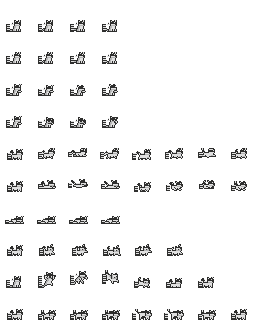
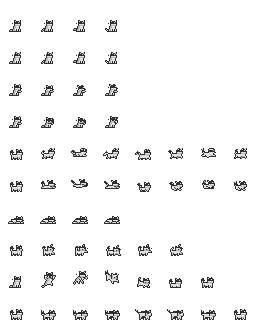
fix(pet): eliminate sprite cropping with 32x32 frames and add handcrafted baby pixel art for cat, rat, and raccoon

diff --git a/test/pet_species_test.dart b/test/pet_species_test.dart
@@ -36,11 +36,13 @@ void main() {
       expect(PetGrowthStage.master.scale, equals(1.15));
     });
 
-    test('Asset resolution uses baby atlas for cats under 200 XP', () {
+    test('Asset resolution uses baby atlas for all species under 200 XP', () {
       expect(PetSpeciesCatalog.resolveAsset('classic', xp: 50), equals('cat_baby.png'));
       expect(PetSpeciesCatalog.resolveAsset('classic', xp: 250), equals('cat.png'));
-      expect(PetSpeciesCatalog.resolveAsset('rat_snow', xp: 50), equals('rat.png'));
-      expect(PetSpeciesCatalog.resolveAsset('raccoon_classic', xp: 50), equals('raccoon.png'));
+      expect(PetSpeciesCatalog.resolveAsset('rat_snow', xp: 50), equals('rat_baby.png'));
+      expect(PetSpeciesCatalog.resolveAsset('rat_snow', xp: 250), equals('rat.png'));
+      expect(PetSpeciesCatalog.resolveAsset('raccoon_classic', xp: 50), equals('raccoon_baby.png'));
+      expect(PetSpeciesCatalog.resolveAsset('raccoon_classic', xp: 250), equals('raccoon.png'));
     });
 
     test('Random pet selection returns valid style', () {

diff --git a/lib/core/widgets/kitty_companion.dart b/lib/core/widgets/kitty_companion.dart
@@ -285,13 +285,9 @@ class _AtlasPainter extends CustomPainter {
   @override
   void paint(Canvas canvas, Size size) {
     if (atlas == null) return;
-    final source = Rect.fromLTWH(frame * 32 + 4, row * 32 + 12, 24, 20);
-    final scale = math.min(size.width / 24, size.height / 20);
-    final target = Rect.fromCenter(
-      center: size.center(Offset.zero),
-      width: 24 * scale,
-      height: 20 * scale,
-    );
+    // Full 32x32 frame cell ensures no tails, ears, or snouts are clipped
+    final source = Rect.fromLTWH(frame * 32.0, row * 32.0, 32.0, 32.0);
+    final target = Rect.fromLTWH(0, 0, size.width, size.height);
     canvas.drawImageRect(
       atlas!,
       source,

diff --git a/lib/core/models/pet_species.dart b/lib/core/models/pet_species.dart
@@ -251,8 +251,12 @@ class PetSpeciesCatalog {
 
   static String resolveAsset(String? styleKey, {int xp = 0}) {
     final def = get(styleKey);
-    if (def.species == PetSpecies.cat && xp < 200) {
-      return 'cat_baby.png';
+    if (xp < 200) {
+      return switch (def.species) {
+        PetSpecies.cat => 'cat_baby.png',
+        PetSpecies.rat => 'rat_baby.png',
+        PetSpecies.raccoon => 'raccoon_baby.png',
+      };
     }
     return def.asset;
   }
